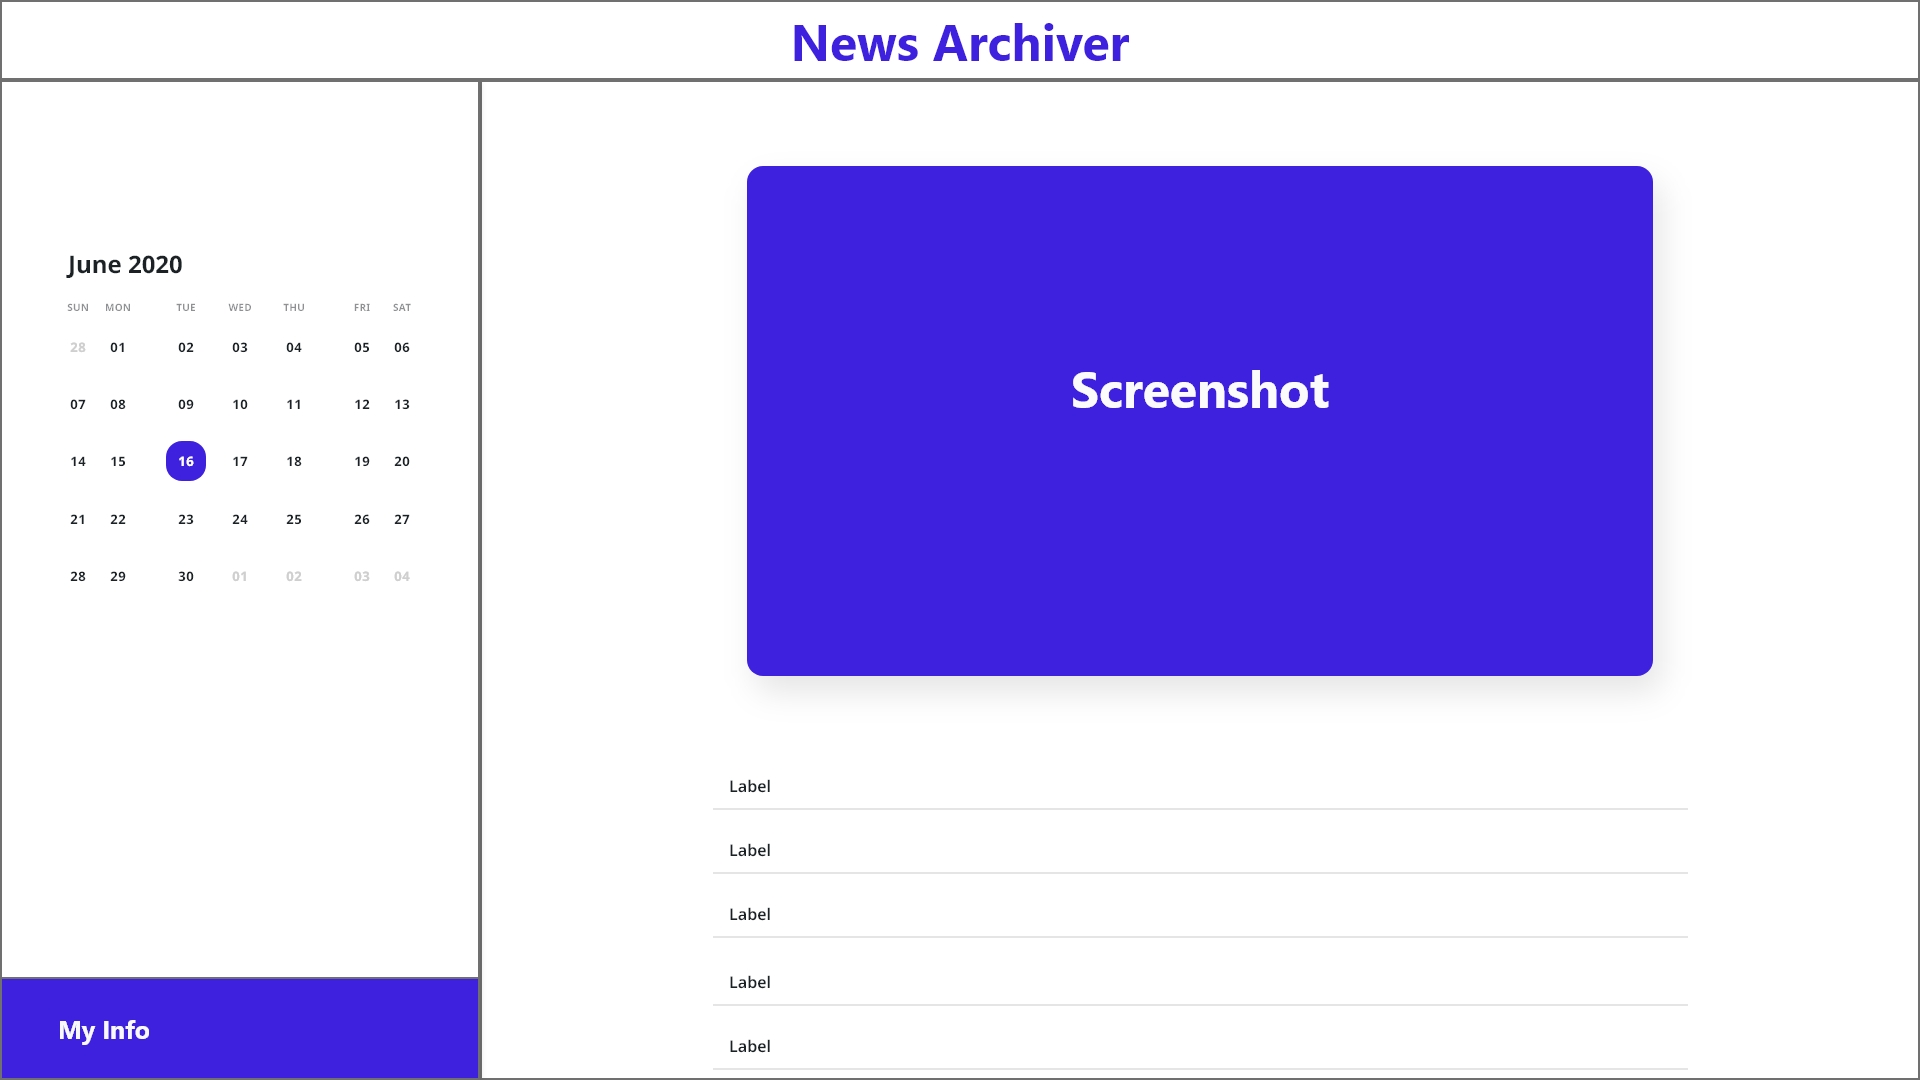
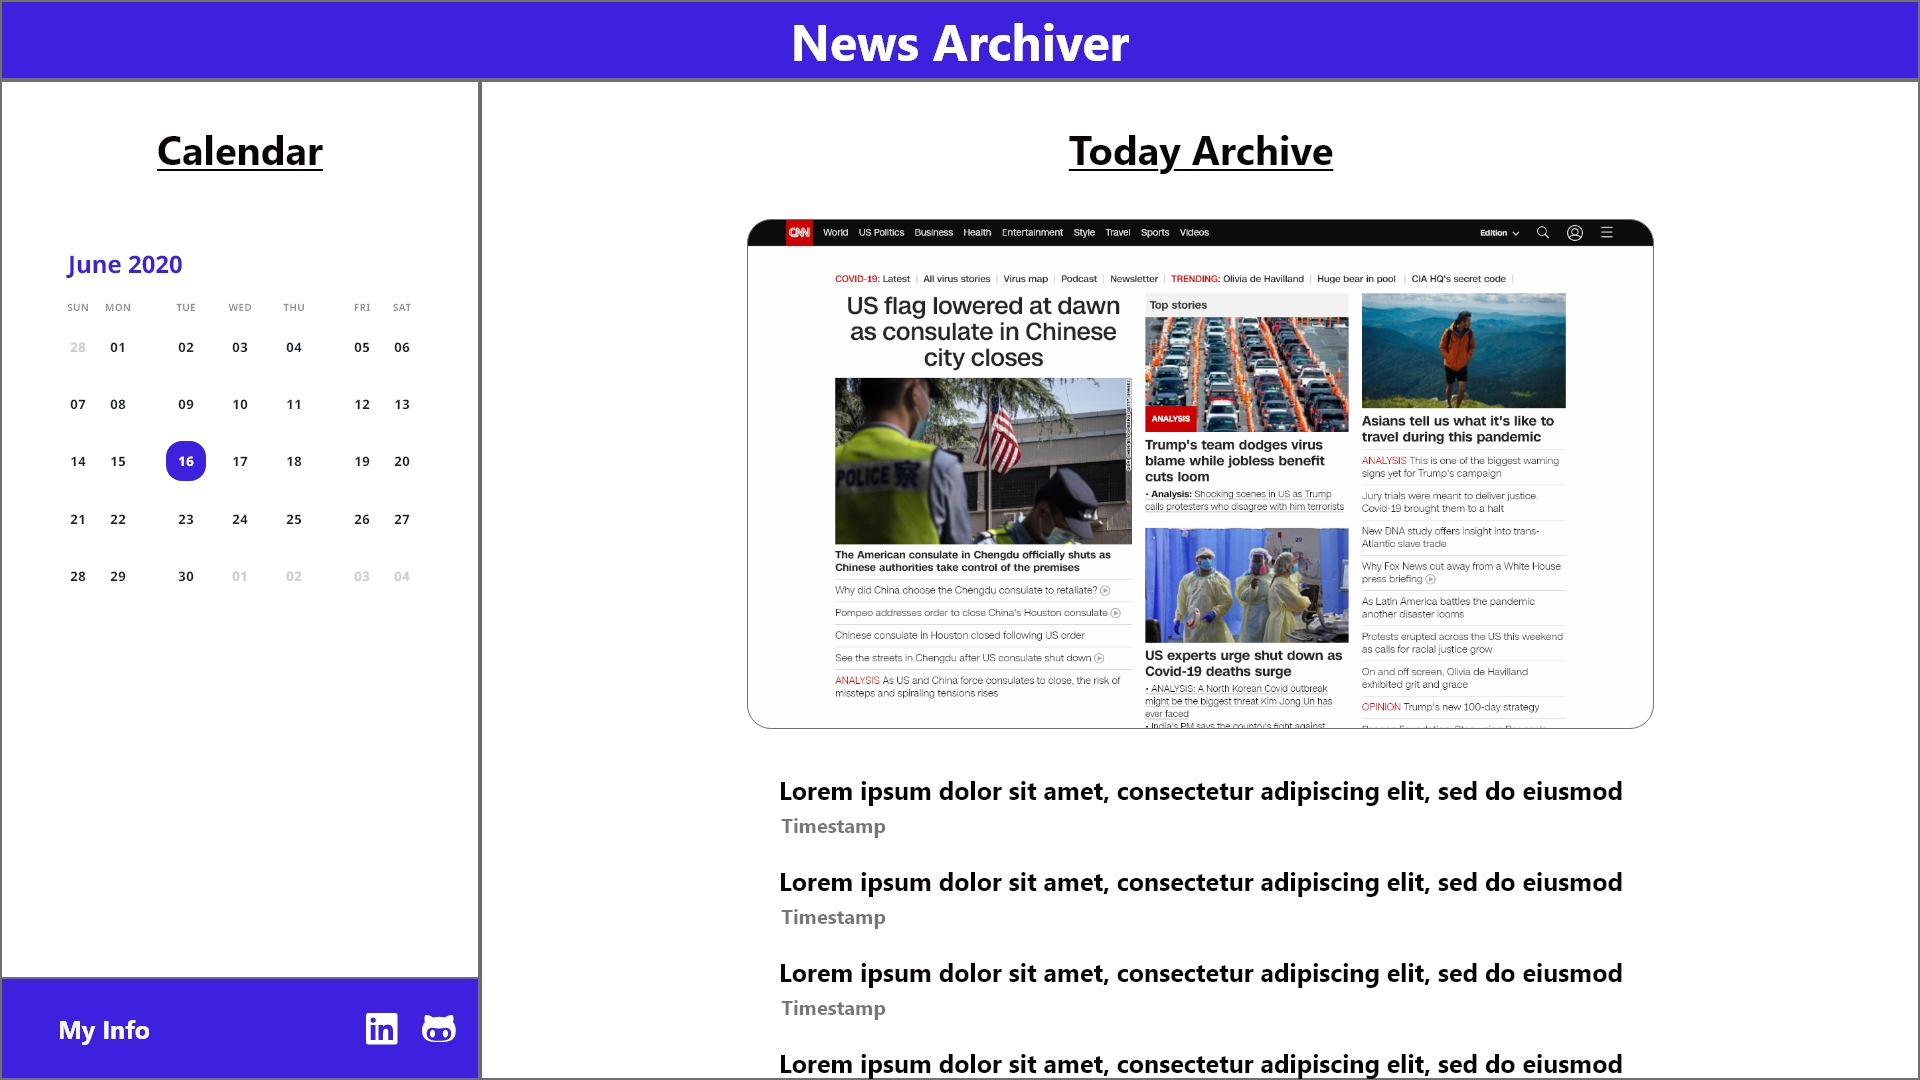
Switch

diff --git a/src/components/calendar/Calendar.vue b/src/components/calendar/Calendar.vue
@@ -1,0 +1,94 @@
+<template>
+  <div class="calendar container">
+    <div class="monthyear">
+        July 2020
+    </div>
+    
+    <div class="weekdays row">
+        <div class="col s1">Sun</div>
+        <div class="col s1">Mon</div>
+        <div class="col s1">Tue</div>
+        <div class="col s1">Wed</div>
+        <div class="col s1">Thu</div>
+        <div class="col s1">Fri</div>
+        <div class="col s1">Sat</div>
+    </div>
+
+    <div class="dates row">
+        <div class="col s1">None</div>
+        <div class="col s1">None</div>
+        <div class="col s1">None</div>
+        <div class="col s1">1</div>
+        <div class="col s1">2</div>
+        <div class="col s1">3</div>
+        <div class="col s1">4</div>
+    </div>
+
+    <div class="dates row">
+        <div class="col s1">5</div>
+        <div class="col s1">6</div>
+        <div class="col s1">7</div>
+        <div class="col s1">8</div>
+        <div class="col s1">9</div>
+        <div class="col s1">10</div>
+        <div class="col s1">11</div>
+    </div>
+
+    <div class="dates row">
+        <div class="col s1">12</div>
+        <div class="col s1">13</div>
+        <div class="col s1">14</div>
+        <div class="col s1">15</div>
+        <div class="col s1">16</div>
+        <div class="col s1">17</div>
+        <div class="col s1">18</div>
+    </div>
+
+    <div class="dates row">
+        <div class="col s1">19</div>
+        <div class="col s1">20</div>
+        <div class="col s1">21</div>
+        <div class="col s1">22</div>
+        <div class="col s1">23</div>
+        <div class="col s1">24</div>
+        <div class="col s1">25</div>
+    </div>
+
+    <div class="dates row">
+        <div class="col s1">19</div>
+        <div class="col s1">20</div>
+        <div class="col s1">21</div>
+        <div class="col s1">22</div>
+        <div class="col s1">23</div>
+        <div class="col s1">24</div>
+        <div class="col s1">25</div>
+    </div>
+
+    <div class="dates row">
+        <div class="col s1">26</div>
+        <div class="col s1">27</div>
+        <div class="col s1">28</div>
+        <div class="col s1">29</div>
+        <div class="col s1">30</div>
+        <div class="col s1">None</div>
+        <div class="col s1">None</div>
+    </div>
+
+       
+  </div>
+</template>
+
+<script>
+export default {
+    name: 'Calendar',
+    data() {
+        return {
+            
+        }
+    }
+}
+</script>
+
+<style scoped>
+
+</style>

diff --git a/src/components/home/Home.vue b/src/components/home/Home.vue
@@ -1,13 +1,18 @@
 <template>
   <div class="home">
     <h1>Home Page Component Here</h1>
-    
+    <Calendar />
   </div>
 </template>
 
 <script>
+import Calendar from '@/components/calendar/Calendar'
+
 export default {
   name: 'Home',
+  components: {
+    Calendar
+  },
   data () {
     return {
 
